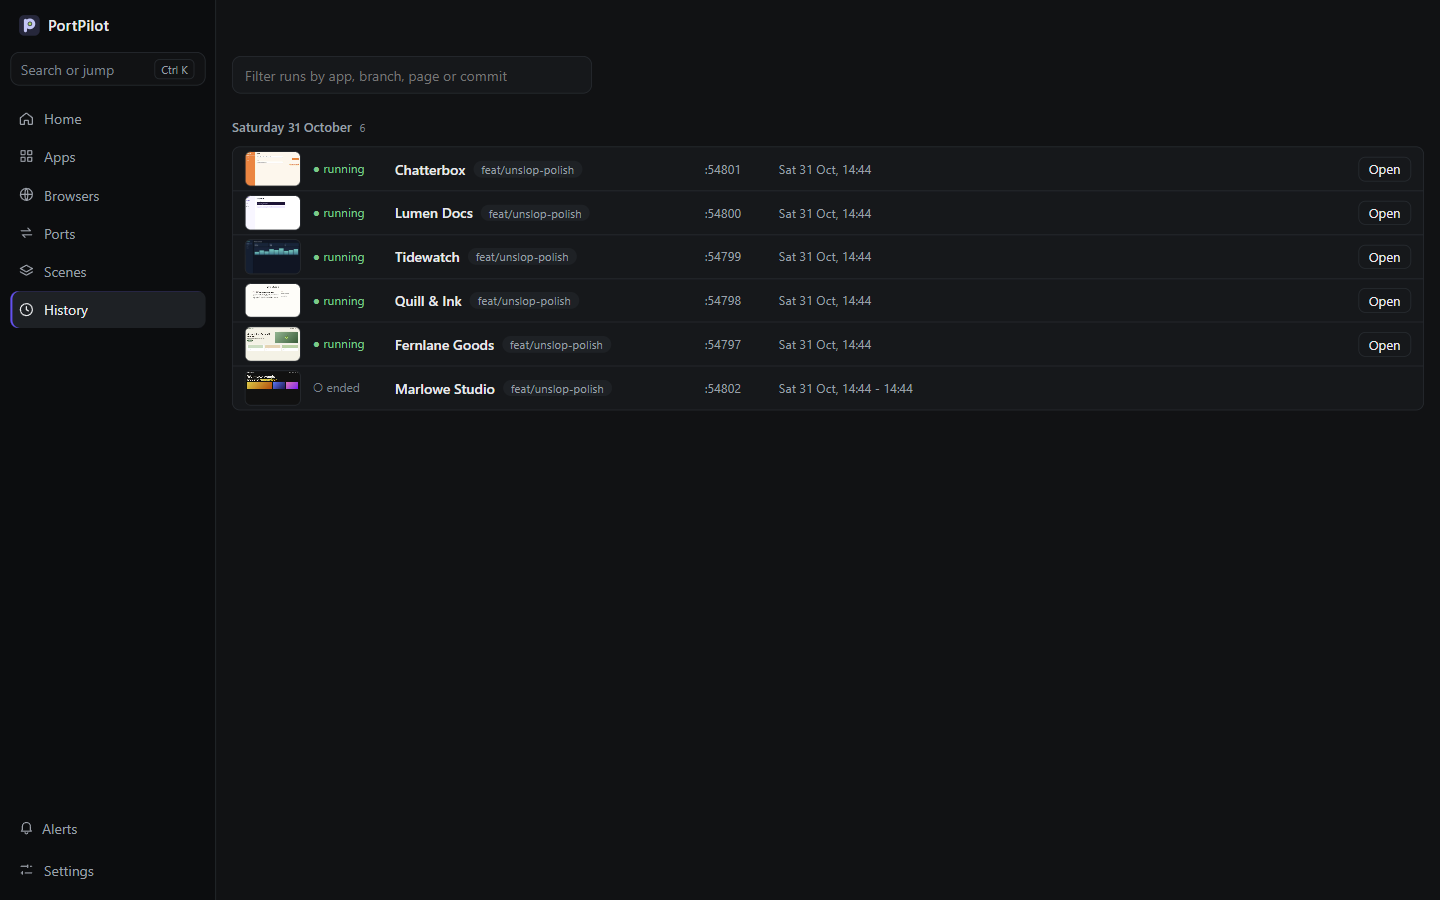
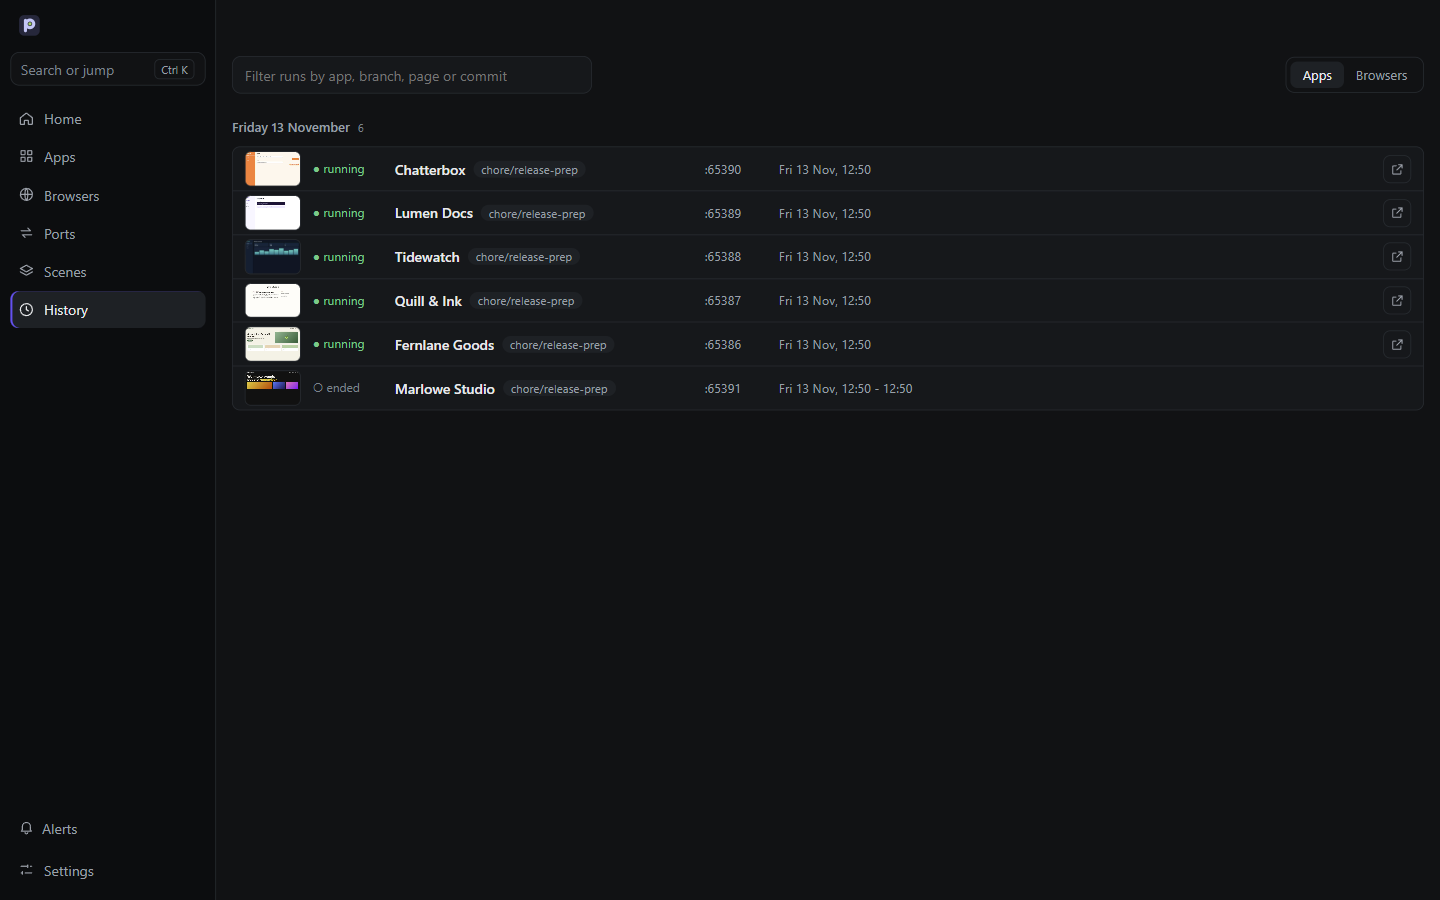
docs: retake README screenshots for the current Home, Apps, History and Browsers
Home shows running tiles with recent apps and browsers as rows (#225), Apps the Tiles view (#223), History the Apps/Browsers switch (#205), Browsers the Tiles option (#202). shots.js clicks Tiles on Apps and Cards on Browsers, which now opens on Rows. Alt text in the README and on the landing page now describes what the pictures show.

diff --git a/docs/index.html b/docs/index.html
@@ -117,7 +117,7 @@
         </div>
 
         <figure class="hero-visual">
-          <img src="screenshots/ui/home.png" class="hero-shot zoomable" tabindex="0" width="2480" height="1352" alt="PortPilot Home: the app you used last with Open, Stop and Details, your browser profiles with page pictures, a scene picker and recently used apps, ">
+          <img src="screenshots/ui/home.png" class="hero-shot zoomable" tabindex="0" width="2480" height="1352" alt="PortPilot Home: running apps as picture tiles with Stop and a menu, recently used apps and browser profiles as rows with Start">
           <div class="term" role="img" aria-label="Claude Code with the PortPilot plugin: the guard turns away a second copy of examworthy-web, a crash band offers Fix it for 550-au, and the status line shows 1 crashed and 7 up">
             <div class="term-bar"><span></span><span></span><span></span><b>claude &middot; examworthy-web</b></div>
             <div class="term-body">
@@ -156,7 +156,7 @@
             <h3>One profile, one port, its own sign-ins</h3>
             <p>A browser opens with <code>--remote-debugging-port=&lt;n&gt;</code>, and anything that can reach <code>127.0.0.1:&lt;n&gt;</code> can read its tabs and click in them. A PortPilot profile is a named browser with its own sign-ins and its own port, so <code>google</code> stays signed in to Search Console while <code>github</code> stays signed in to GitHub. Nothing picks a port by chance. If another program holds a profile's port, the row says which one.</p>
           </div>
-          <img src="screenshots/ui/browsers.png" class="crop zoomable" tabindex="0" width="2480" height="1440" loading="lazy" alt="The Browsers screen: four named profiles with a picture of their site, a debug port and a purpose each">
+          <img src="screenshots/ui/browsers.png" class="crop zoomable" tabindex="0" width="2480" height="1440" loading="lazy" alt="The Browsers screen: three named profiles with a picture of their site, a debug port and a purpose each">
         </div>
         <div class="feature-row reveal">
           <div class="feature-copy">
@@ -241,7 +241,7 @@
             <h3>Run history</h3>
             <p>Every start, stop and crash is recorded locally, with the branch, commit and any uncommitted files. Search by app, branch or file, then re-run an old version in a sibling worktree. Claude can look a run up too, with the <code>find_run</code> tool.</p>
           </div>
-          <img src="screenshots/ui/history.png" class="crop zoomable" tabindex="0" width="2480" height="1800" loading="lazy" alt="The History view: a crashed run with its exit code, stopped runs and running ones with Open, each with a page thumbnail">
+          <img src="screenshots/ui/history.png" class="crop zoomable" tabindex="0" width="2480" height="1800" loading="lazy" alt="The History view: app runs with a page thumbnail, branch, port and time, running ones with Open, and a switch to browser sessions">
         </div>
         <div class="feature-row reveal">
           <div class="feature-copy">

diff --git a/docs/demo/fictional/shots.js b/docs/demo/fictional/shots.js
@@ -74,7 +74,8 @@ async function main() {
     const runningIds = () => win.evaluate(async () => (await window.portpilot.process.list()).apps.filter((a) => a.running).map((a) => a.id));
     check('the finished run stays stopped', !(await runningIds()).includes('app_portfolio'), (await runningIds()).join(','));
     await win.click('role=tab[name="Apps"]');
-    await win.click('role=button[name="Cards"]');
+    // Apps has Rows and Tiles since Cards was removed (#223); Tiles is the picture view.
+    await win.click('role=button[name="Tiles"]');
     await until(() => win.evaluate((n) => document.querySelectorAll('.card.running .shot img').length >= n, SITES.length - 1), 120000, 'live thumbnails');
     check('every running app shows a real capture', true);
     await h.sleep(1500);
@@ -93,6 +94,7 @@ async function main() {
     await shot('manage');
 
     await win.click('role=tab[name="Browsers"]');
+    await win.click('role=button[name="Cards"]'); // Browsers opens on Rows; the shot shows each profile's picture
     await until(() => win.locator('.bcard .shot img').count().then((n) => n === PROFILES.length), 20000, 'profile art');
     check('each profile card shows its picture', true);
     await shot('browsers');

diff --git a/docs/testing/EVIDENCE-LOG.md b/docs/testing/EVIDENCE-LOG.md
@@ -217,6 +217,7 @@ Every number published about this work (see [ARTICLE-NOTES.md](ARTICLE-NOTES.md)
 | 2026-11-12 12:13-12:45 | idle-polling | `redesign-idle`, `redesign-localhost`, `redesign-wave4`, `redesign-home`, `redesign-shell`, one at a time under the lock; `npm run test:unit`; the build on a copy of a real config (123 listening ports), navigation only | idle 6/6; localhost 33/33; wave4 32/32 (24 before, 8 new for the two folds); home 23/23; shell 25/25 on 2 of 3 runs (F144); unit exit 0 (new `ui-idle.test.cjs` 13/13); real config: Ports 26 rows by default, 85 temporary and 12 system folded, no sideways scroll at 390, no page errors | about 30 min | F140-F144. The unit run was on the build before the fold switched to the shared system list; `ui-idle.test.cjs`, typecheck and wave4 were re-run after it. The 2 s thumbnail watcher in the main process was left alone: idle, it is one file stat per tick |
 | 2026-11-12 13:00-13:50 | 0af991f + scale-loose-ends | `restarts` journey before and after the F145 fix; `redesign-shell` twice more on 0af991f; then with all three fixes: `redesign-shell`, `redesign-localhost`, `redesign-home`, `redesign-shared-port` (new), one at a time under the lock; `npm run test:unit`; UI typecheck | restarts 94/100 then 100/100; shell 25/25 x2 before, 27/27 after (2 new checks for F134); localhost 34/34 (1 new for F145); home 23/23; shared-port 7/7; unit exit 0 (`own-port` 11/11); typecheck clean | restarts 289 s and 138 s; the rest not recorded | F145, F134 and F138 follow-ups. Not re-run on a copy of a real config: F134 was reproduced on the fixtures by opening Apps before the first read |
 | 2026-11-12 22:20-22:45 | e98bfec + apps-loading-note | `redesign-shell` before and after, `redesign-localhost`, one at a time under the lock; UI typecheck; the build on a three-app throwaway config with the first read held back 20 s, navigation only | shell 27 passed, 1 failed then 28/28 (1 new check); localhost 34/34; typecheck clean; "Reading your apps" centred under the toolbar on Apps and Manage at 1440 and 390 in light, and on Manage at 1440 in dark | not recorded | F146. Unit tests were left to CI: no file outside `ui/` and the specs changed |
+| 2026-11-13 12:48-12:52 | 90af7cd + release-prep | `docs/demo/fictional/shots.js` on the six fictional demo apps and three profiles (throwaway config), under the lock; first run stopped at "profile art" (Browsers now opens on Rows), second run after adding a Cards click | 3/3 checks; README `home`, `apps`, `history`, `browsers` replaced at 1440x900 and read: all four differed from the 5.0 shots (Home tiles and rows from #225, Apps Tiles from #223, History's Apps/Browsers switch from #205, Browsers' Tiles option from #202) | about 1 min | No finding. Light, manage and palette shots were regenerated but not committed: nothing links them |
 
 ## Cleanups done on real data
 

diff --git a/README.md b/README.md
@@ -28,7 +28,7 @@ Prefer to stay in your editor? The same apps, ports and crash alerts are in the 
 
 </div>
 
-![PortPilot Home: the running apps with Open, Stop and Details, your browser profiles and recently used apps](docs/screenshots/ui/home.png)
+![PortPilot Home: running apps as picture tiles with Stop and a menu, recently used apps and browser profiles as rows with Start](docs/screenshots/ui/home.png)
 
 [![A cat at a desk watches Claude Code ask PortPilot for the youtube profile; the Browsers row switches to in use and the newest video opens](docs/media/browsers-film-poster.jpg)](docs/media/browsers-film.mp4)
 
@@ -187,8 +187,8 @@ More Claude Code screenshots (status line, crash band, `find_run`): [reference](
     <th>Browsers</th>
   </tr>
   <tr>
-    <td width="33%"><a href="docs/screenshots/ui/apps.png"><img src="docs/screenshots/ui/apps.png" alt="Apps: running sites with live page previews"></a></td>
-    <td width="33%"><a href="docs/screenshots/ui/history.png"><img src="docs/screenshots/ui/history.png" alt="History: runs with thumbnails, a crashed run, stopped runs and running ones with Open"></a></td>
+    <td width="33%"><a href="docs/screenshots/ui/apps.png"><img src="docs/screenshots/ui/apps.png" alt="Apps in the Tiles view: running sites with live page previews in their groups, a stopped app below"></a></td>
+    <td width="33%"><a href="docs/screenshots/ui/history.png"><img src="docs/screenshots/ui/history.png" alt="History: app runs with thumbnails, branch, port and time, running ones with Open, and a switch to browser sessions"></a></td>
     <td width="33%"><a href="docs/screenshots/ui/browsers.png"><img src="docs/screenshots/ui/browsers.png" alt="Browsers: three profiles with their ports and purposes"></a></td>
   </tr>
 </table>
